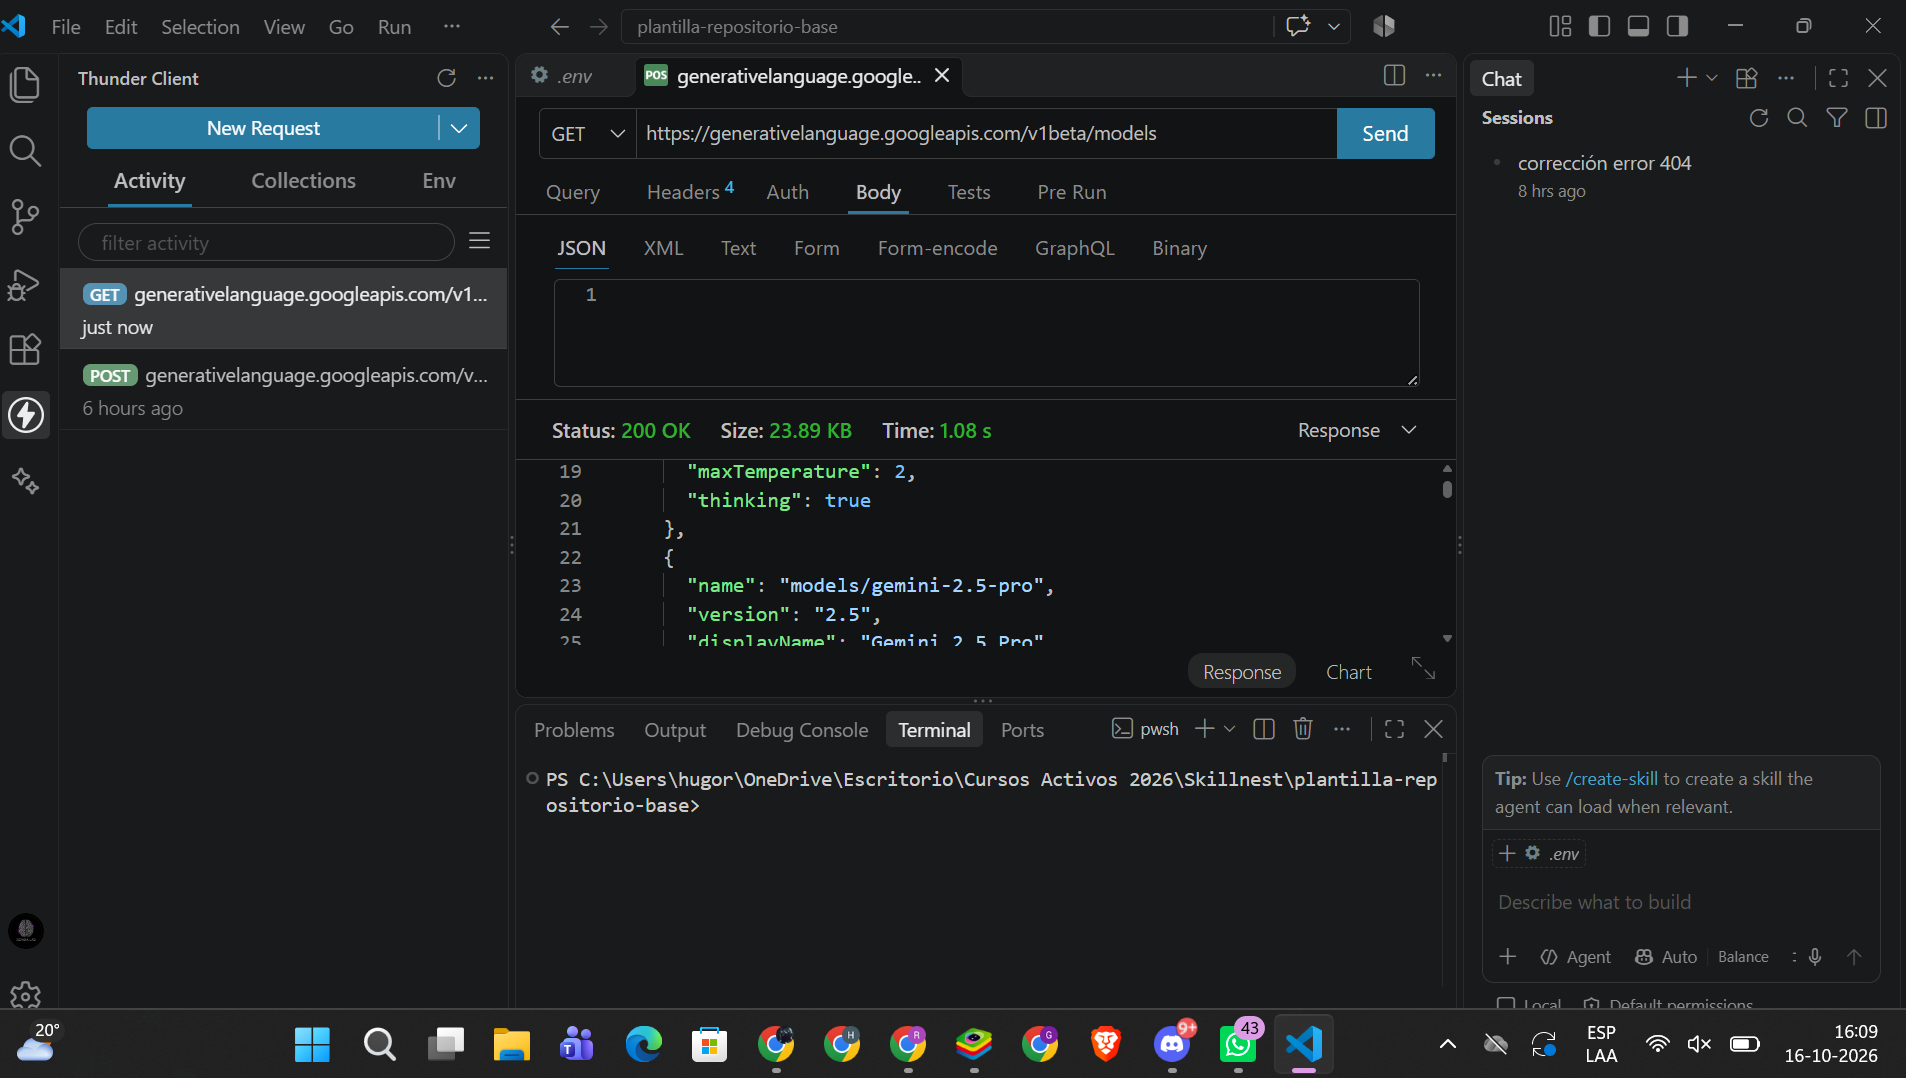
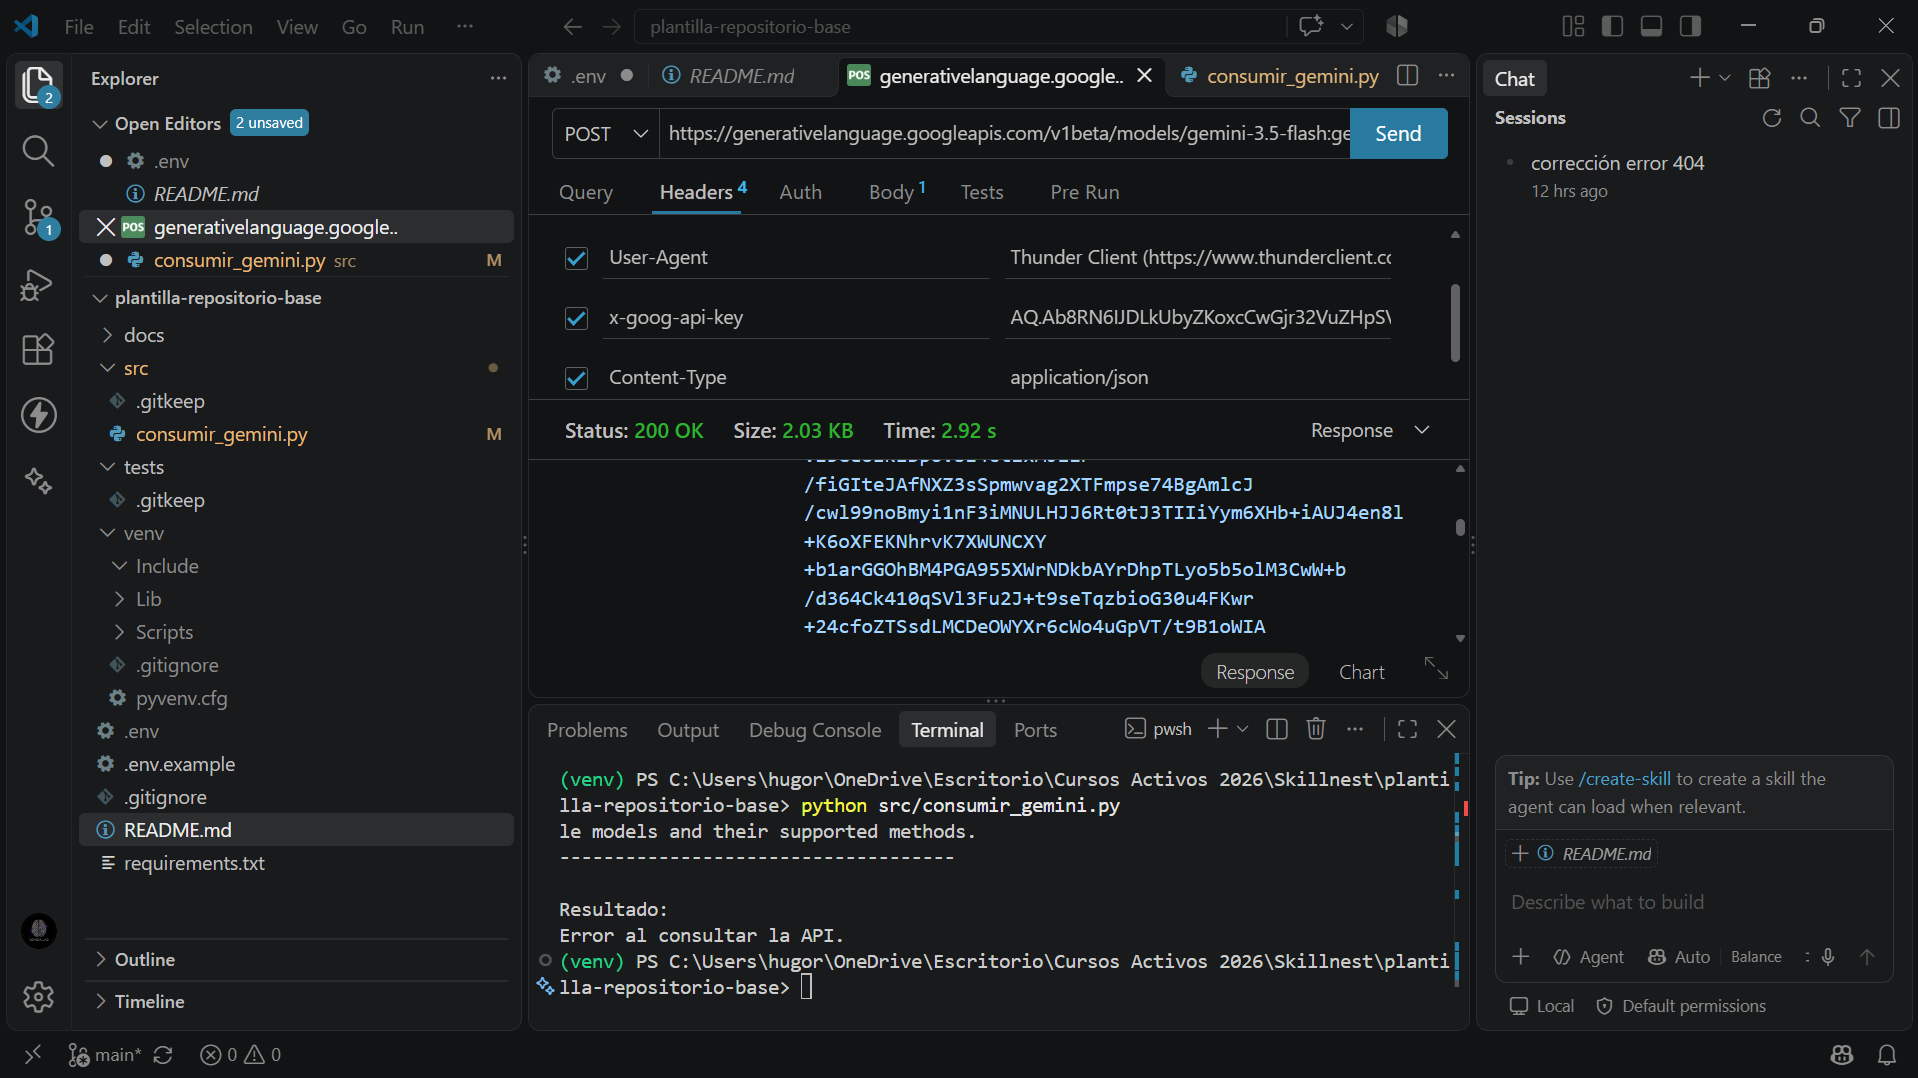
Refactorizar modulo de consumo de Gemini en funciones reutilizables

diff --git a/src/consumir_gemini.py b/src/consumir_gemini.py
@@ -2,22 +2,48 @@ import os
 import requests
 from dotenv import load_dotenv
 
+# Cargar la clave desde el .env
 load_dotenv()
 
-def obtener_dato_de_prueba(pregunta):
+
+def construir_peticion(pregunta: str) -> tuple[str, dict, dict]:
+    """Arma la URL, los headers y el body tal como los configuraste en Thunder Client."""
     api_key = os.getenv("GEMINI_API_KEY")
-    modelo = "gemini-flash-latest"
-    url = f"https://generativelanguage.googleapis.com/v1beta/models/{modelo}:generateContent?key={api_key}"
+    modelo = "gemini-2.5-flash"  # O el nombre exacto que pusiste en Thunder Client
+    url = f"https://generativelanguage.googleapis.com/v1beta/models/{modelo}:generateContent"
+    
+    headers = {
+        "Content-Type": "application/json",
+        "x-goog-api-key": api_key
+    }
+    
     body = {
         "contents": [
             {"parts": [{"text": pregunta}]}
         ]
     }
-    respuesta = requests.post(url, json=body)
-    datos = respuesta.json()
+    return url, headers, body
+
+
+def enviar_peticion(url: str, headers: dict, body: dict) -> dict:
+    """Envía la petición POST externa y devuelve el JSON."""
+    respuesta = requests.post(url, headers=headers, json=body)
+    return respuesta.json()
+
+
+def extraer_texto(datos: dict) -> str:
+    """Extrae el texto generado por Gemini."""
     return datos["candidates"][0]["content"]["parts"][0]["text"]
 
-# Prueba de la función
+
+def consultar_modelo(pregunta: str) -> str:
+    """Función orquestadora principal."""
+    url, headers, body = construir_peticion(pregunta)
+    datos = enviar_peticion(url, headers, body)
+    return extraer_texto(datos)
+
+
 if __name__ == "__main__":
-    resultado = obtener_dato_de_prueba("Confirma en una frase corta que esta conexión funciona")
-    print(resultado)
+    pregunta = "Confirma en una frase corta que esta conexión funciona correctamente."
+    print("Respuesta de Gemini:")
+    print(consultar_modelo(pregunta))
